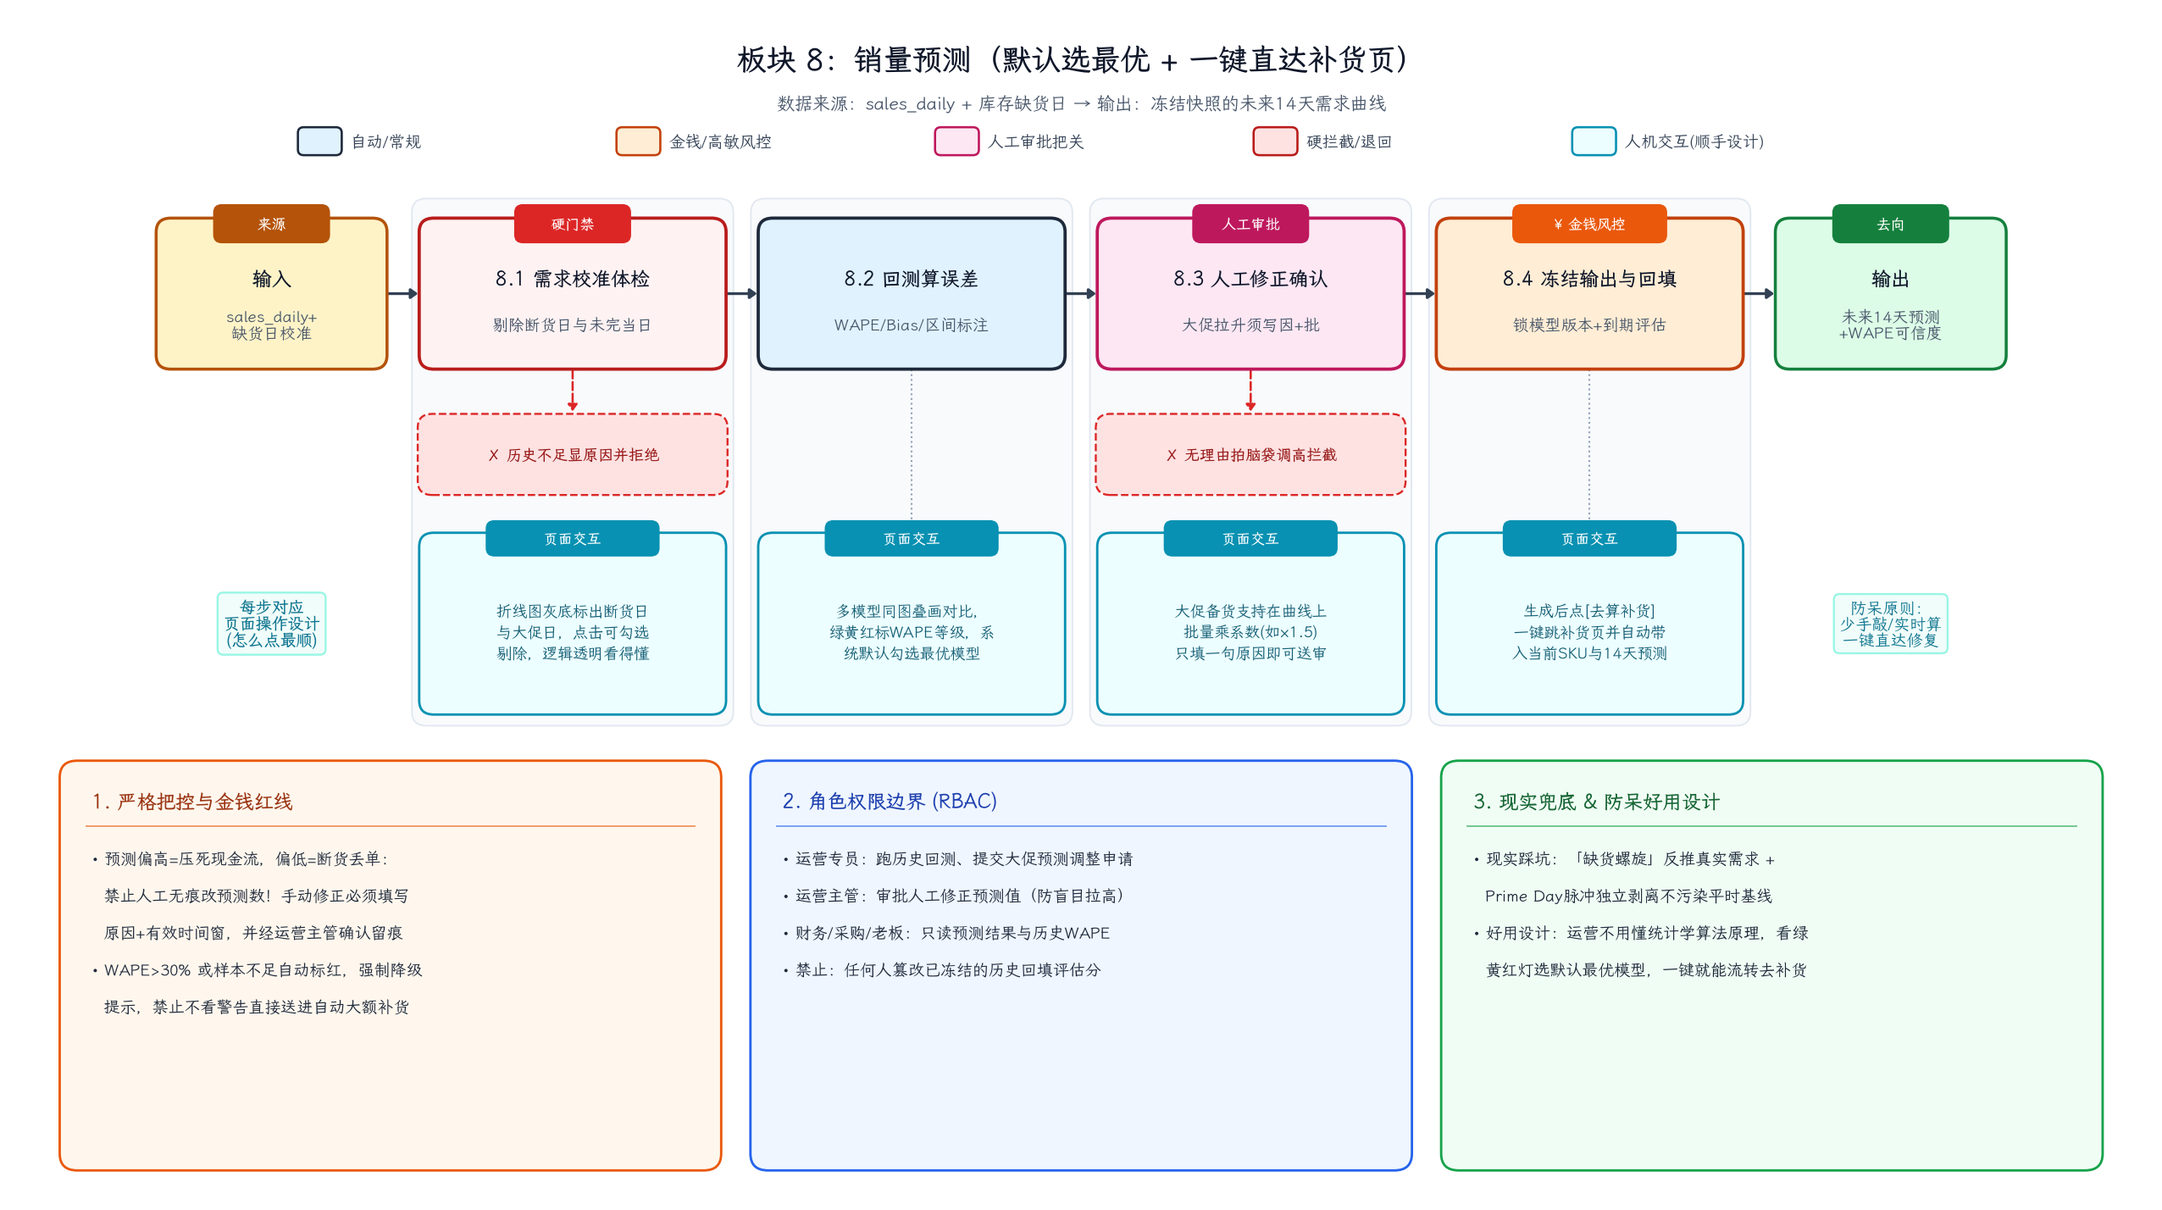
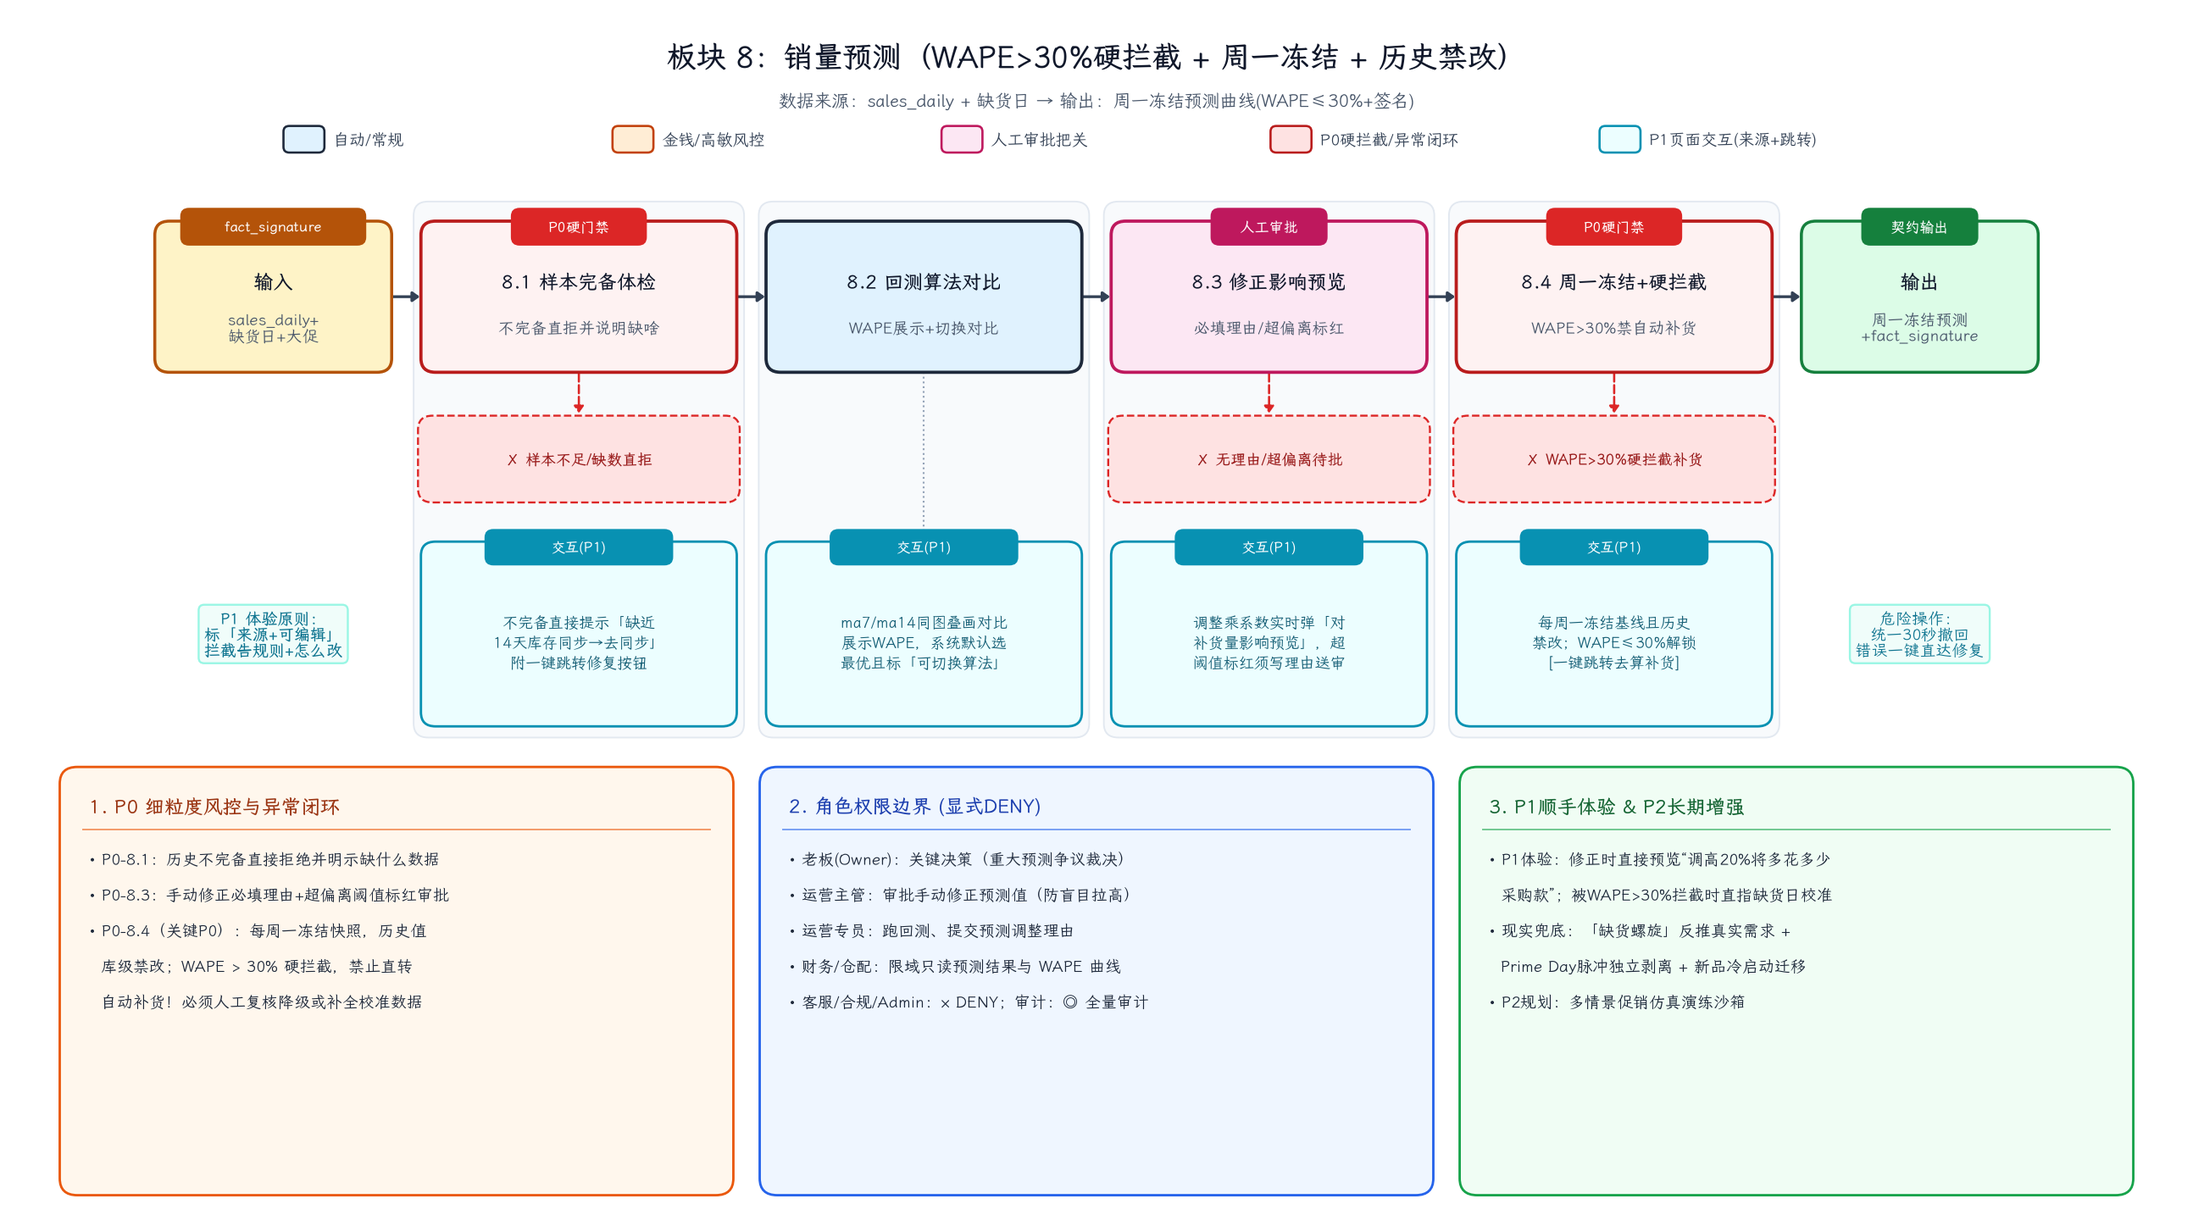
docs: 按P0/P1/P2评审全面升级16张流程图与全链路契约
- P0权限修复(m00): Owner关键决策+异常裁决防瓶颈、财务/合规三权分立、Admin剥离业务权全显式DENY、Auditor全量审计
- P0跨板块(m15): 全链路 fact_signature 契约(8→9→4→2→3)与审批驳回/库存变动异常闭环
- P0模块硬补: 订单金额变更申请单、预测WAPE>30%硬拦截+周一冻结、知识库隐藏列脱敏+过期自动下架、审计SHA-256哈希链、补全板块10经营总览晨会图
- P1体验升级(m14+全图): 来源+可编辑提示、拦截明示规则与改法+一键跳转、危险操作统一30秒撤回

diff --git a/docs/prototypes/strict-rbac-and-controls.md b/docs/prototypes/strict-rbac-and-controls.md
@@ -1,53 +1,58 @@
-# 严格业务风控、9角色权限矩阵与现实优化设计（V2）
+# 严格业务风控、9角色权限矩阵与全链路契约设计（V3 · P0/P1/P2 完善版）
 
-> 对应流程图目录：`docs/prototypes/modules/`（`m00_rbac_matrix.png` + `m01_shop.png` ~ `m13_kb.png` + `m14_ux_principles.png`，共 15 张 PNG）  
-> 设计原则：**凡涉金钱与对外发布必设人工审批门禁、提案与审批强制分离（SoD）、管理权与资金权分离、未知不填零、全链路不可篡改审计；同时「把麻烦留给系统预检，把直观和一键决策留给人」**。
-
----
-
-## 一、企业级 9 角色权限矩阵（基于现有 6 角色升级）
-
-> 与现有代码 `pilot/rbac/service.py`（`viewer / planner / approver / warehouse / auditor / admin`）兼容映射，补齐跨板块业务岗位：
-
-| 岗位角色 | 对应现有 RBAC | 核心职责边界 | 严禁越权红线 |
-|---|---|---|---|
-| **1. 老板 (`owner`)** | 新增（终审级） | 全局只读全盘经营/现金流/净利润；终审大额补货（`>$20,000`）、大额退款、超额度测款、店铺授权/解绑、月度封账、高敏权限复核 | 保留常规操作留痕，所有终审写不可篡改审计日志 |
-| **2. 财务 (`finance`)** | 新增（资金/账务） | 全权管理【财务利润】（费用导入、CostCard 锁版、汇率结算、月度封账）；会签中大额补货（`$3k~$20k`）、复核选品利润率、审核大额退款/打款；只读经营总览与问数财务口径 | **禁止**发客服消息、发商品内容、修改商品上架文案、自建采购收货、配置 RBAC 权限 |
-| **3. 运营主管 (`ops_manager`)** | 映射 `approver` | 审批所辖店铺的【选品初筛】、【内容发布】、【销量预测人工修正】、【常规补货 `≤$3,000`】、【商品下架/特批改价】 | **禁止**自批自己提交的申请（SoD）；无权修改 CostCard 与公司总利润封账 |
-| **4. 运营专员 (`operator`)** | 映射 `planner` | 导入选品、维护商品基础信息、生成内容草稿送审、提交预测调优申请、提交补货方案（`READY_FOR_REVIEW`） | **绝对禁止**自提自批；调价低于保本线硬拦截；看不到公司整体净利润 |
-| **5. 采购仓配 (`warehouse_buyer`)** | 映射 `warehouse` | 执行已批准 PO 下单、物流登记、分批收货质检上传凭证、提交库存盘点单 | **禁止**审批补货单、修改采购单价/数量、查看公司总利润与广告费 |
-| **6. 客服 (`cs_agent` / 主管)** | 新增 | 查看脱敏订单、知识库检索、AI 辅助起草并确认回复、创建售后工单（客服主管可批小额赔付，大额转财务） | **严禁**看公司采购底价与净利润；问数询问利润直接拒绝；高风险投诉强制切人工 |
-| **7. 合规负责人 (`compliance`)** | 新增 | 维护【合规规则库】（发布/回滚禁用词、类目认证矩阵、AI 人物标注规范）；高风险内容与选品合规一票否决；审核【知识库】退货政策文档 | 不参与日常花钱采购与资金审批 |
-| **8. 系统管理员 (`sys_admin`)** | 映射 `admin` | 创建普通账号、绑定店铺技术 Token 与同步调度、配置菜单与基础参数 | **三权分立**：不能看公司净利润、不能审批任何金钱单据、不能自授「老板/财务/审批」高敏角色（须老板二次复核）、不能删改审计日志 |
-| **9. 审计员 (`auditor`)** | 保留 `auditor` | 全局只读全业务单据流痕、审批记录、权限变更 Diff、智能问数执行记录 | **全系统零写权限**，独立监督包含老板/财务/管理员在内的所有操作 |
-
-### 四大内控铁律
-
-1. **铁律 1（SoD 提案≠审批）**：`created_by != approved_by`，系统后端强制校验，任何提交人不得批准自己的选品/内容/补货/退款申请。
-2. **铁律 2（金钱三级审批）**：
-   - `≤ $3,000`：运营主管审批；
-   - `$3,000 ~ $20,000`：运营主管 + 财务会签（核现金流与 CostCard）；
-   - `> $20,000` 或激进高风险/大额赔付单：必须老板（Owner）终审。
-3. **铁律 3（管理权与资金权分离）**：系统管理员不管钱、不看总利润、不删日志；授予高敏角色必须老板二次确认。
-4. **铁律 4（实时查库鉴权 + 按角色脱敏）**：不信任 JWT 旧快照，离职停用毫秒级失效；客服/运营/管理员在经营总览与智能问数中被自动屏蔽公司总净利润与采购底价。
+> 对应流程图目录：`docs/prototypes/modules/`（共 **16 张 PNG**：`m00_rbac_matrix.png` + `m01_shop.png` ~ `m13_kb.png` + `m14_ux_principles.png` + `m15_cross_module_contract.png`）  
+> 核心原则：**消除灰区（全显式 `DENY`）、剥离管理员业务权、Owner 防瓶颈、全链路 `fact_signature` 契约、SHA-256 哈希链审计、危险操作统一 30 秒撤回、P0 阻断必须先于 P1/P2 落地**。
 
 ---
 
-## 二、13 个板块的严格把控点与现实优化点子汇总
+## 一、改进优先级地图（P0 → P1 → P2）
 
-| 板块 | 流程图文件 | 核心金钱/风险把控点 | 现实业务兜底 & 高价值优化点子 |
+1. **P0 阻断级（必须现在补齐，严禁带病上线）**：
+   - 权限矩阵修复：Owner 防瓶颈（财务/合规仅保留「阅+争议裁决」）；Admin 剥离所有业务板块操作权（`01~11, 13` 显式 `DENY`，仅留 `12 系统管理`）；消灭空白灰区全部显式 `DENY`；Auditor 明确赋予全量审计日志只读。
+   - 订单金额字段库级只读，任何修改必须走「金额变更申请单」。
+   - 销量预测每周一冻结，历史值禁改；**`WAPE > 30%` 硬拦截禁止直转自动补货**。
+   - 上传知识库强制扫 PII/底价及 **Excel 隐藏列**，未 `PUBLISHED` 禁止 AI 引用，**过期政策自动下架** + 影响问答预览。
+   - 补全跨板块 `fact_signature` 契约（覆盖 `8→9→4→2→3` 每个交接点）+ 补全异常闭环（审批驳回退回发起人 / 库存中途变动拦截重算）。
+   - 板块 12 审计日志升级为 **Append-Only + SHA-256 哈希链防篡改**。
+   - 专设板块 10「经营总览」老板一屏晨会视图（汇总 `8预测+9补货+3财务+2订单+7客服`）。
+2. **P1 体验级（顺手度提升）**：
+   - Auto-Fill 必标「来源 + 可编辑」；拦截明示「违反哪条规则 + 怎么改 + 一键跳转」。
+   - 危险操作（退款 / 内容发布 / 商品改价 / 客服发送 / 补货提交）统一 **30 秒撤回窗口**。
+   - 店铺失败重试 3 次指数退避转人工单 + SLA 超时逐级通知；财务按结算日锁汇率、CostCard Diff 高亮；选品模板下载 + 异常列高亮 + 评分权重模板保存；内容 5 秒存稿 + `bilingual` 一键采纳 + 红线高亮一键替换；客服近 3 单 + 设备 + PII 脱敏 + 快捷回复；知识库审前「模拟买家试问盒」。
+3. **P2 增强级（长期建设）**：
+   - 移动端审批、数据埋点看板、AI 意图识别置信度展示、评分模板市场、多情景仿真沙箱演练、跨板块日志关联查询、规则变更影响分析、多语言/多时区深度适配。
+
+---
+
+## 二、企业级 9 角色权限矩阵（P0 修复版 · 见 `m00_rbac_matrix.png`）
+
+| 岗位角色 | 定位 | 核心权限边界 | 严禁越权与三权分立隔离 |
 |---|---|---|---|
-| 0. 权限总览 | `m00_rbac_matrix.png` | 9 角色 × 13 板块权限矩阵 + 四大内控铁律 | 限时代理审批（主管休假防卡单）、高危权限变更前后 Diff |
-| 1. 店铺管理 | `m01_shop.png` | 改绑 `org_id`/默认费率须老板批；有历史账目禁物理删店；同步失败保留旧快照 | 多站点时区对齐（PST vs UTC+8）、Token 临期 7 天告警、防关联体检 |
-| 2. 订单中心 | `m02_order.png` | 原始成交额锁定禁止手改；退款 ≤ 实付；大额退款需财务+主管双审 | 东南亚 COD 拒收率剔除、FBA 多仓拆单追踪、恶意刷单/高拒付地址标黄 |
-| 3. 财务利润 | `m03_finance.png` | 未知不填零（缺费用禁算假利润）；跨币种禁直接相加；CostCard 锁版与月度封账 | 平台压款回款日历（GMV≠现金）、头程按重量/体积重分摊、退货不可售损毁核销 |
-| 4. 商品中台 | `m04_product.png` | 保本售价红线硬拦截；盘点走调整单禁直接改库存；有在途 PO 禁删 SKU | 组合装（Bundle）BOM 联动扣库存、商品生命周期状态标签（测款/主推/清仓/冻结） |
-| 5. 选品研究 | `m05_selection.png` | 五条件硬门禁（非纯内部真实数据禁批准）；测款预算分级批；合规一票否决 | 季节性爆款防全年误备货、高销量高退货陷阱拦截、MOQ 阶梯价利润重算 |
-| 6. 内容智能 | `m06_content.png` | 生成≠合规≠发布三态隔离；命中侵权/违禁词/缺 AI 元数据直接 `BLOCKED`；GPU 日限额 | 同音/拆字变体违禁词检测、差评高频痛点自动反哺五点描述优化 |
-| 7. 客服工作台 | `m07_cs.png` | 四重拦截防封店（外链/索好评/错金额）；投诉强制切人工；退款关联原单防超退 | Amazon 24h SLA 倒计时置顶预警、跨店职业索赔买家识别、高频问题回流选品/KB |
-| 8. 销量预测 | `m08_forecast.png` | 样本不足显因拒绝；人工调高预测须填因+时间窗+主管批；WAPE>30% 红灯警告 | 缺货螺旋反推真实需求、大促脉冲剥离基线、新品冷启动同类目迁移预测 |
-| 9. 智能补货 | `m09_replenish.png` | `fact_signature` 防过期审批；SoD+三级金额审批；三单匹配（PO+物流+质检）入库 | 交期方差动态安全库存、MOQ/箱规自动凑整、月度采购资金池上限排序抢额度 |
-| 10. 经营总览 | `m10_dashboard.png` | 按角色脱敏财务卡；强制标注 `as_of`/币种/模拟标；AI 简报不编数 | 库存资金占用与周转天数健康卡、异常指标一键下钻直达处理单据 |
-| 11. 智能问数 | `m11_qa.png` | 写指令硬拒绝；继承 RBAC 权限域（客服禁问利润）；跨币种禁相加返回 `MIXED_CURRENCY` | 指标口径歧义主动反问澄清、高频问句一键钉选看板、防 Prompt 注入 |
-| 12. 系统管理 | `m12_rbac.png` | 高敏授权老板复核防 Admin 自加权；每次实时查库鉴权；Append-Only 审计日志 | 休假限时代理授权、夜间异常批量导出财务表告警 |
-| 13. 上传知识库 | `m13_kb.png` | 敏感词扫描防误传内部底价；草稿需合规/主管审后才可被 AI 检索；新版归档旧版 | 文档生效起止时间（大促临时政策自动过期）、知识盲区雷达统计无答案问题 |
+| **1. 老板 (`owner`)** | 关键决策 + 异常裁决 | 关键节点拍板（店铺解绑/大额补货 `$30w+`/大额异常退款/高敏授权二级复核）；一屏晨会只读全盘 | **防瓶颈 & 三权分立**：在 `03 财务利润`、`06 内容`、`13 知识库` **仅保留「阅 + 争议裁决」**，不插手日常审批 |
+| **2. 财务 (`finance`)** | 钱袋子与账务主责 | 日常费用导入、`CostCard` 编审锁版、汇率锁算、月结核算；审批订单退款、选品利润、`$3k~$30w` 补货会签 | 无权操作内容、客服对话、预测修改、系统管理（全部显式 `DENY`） |
+| **3. 运营主管 (`ops_manager`)** | 日常业务审批 | 审批小额退款/订单跳态、商品改价停售、选品常规测款、内容发布、预测手修、`≤$3k` 补货 | **禁止自提自批（SoD）**；`03 财务`、`12 系统管理` 显式 `DENY` |
+| **4. 运营专员 (`operator`)** | 日常运营提交 | 商品维护、选品导入提审、内容草稿生成、预测提交、补货提交、`13 知识库` 草稿上传 | **严禁自批**；`03 财务`、`07 客服`、`12 系统` 显式 `DENY` |
+| **5. 采购仓配 (`warehouse_buyer`)** | 货流与三单收货 | 维护库存盘点单、按审批生成锁定数量 PO、三单匹配收货质检（不合格品进隔离区） | 禁止修改审批后 PO 数量；`03 财务`、`05~07`、`12~13` 显式 `DENY` |
+| **6. 客服 (`cs_agent`)** | 买家沟通与工单 | 脱敏查近 3 单+设备、AI 辅助翻译(`bilingual` 一键采纳)与回复、建售后补偿申请、传 KB 草稿 | 命中四类红线强制切人工；`03/05/06/08/09/12` 显式 `DENY` |
+| **7. 合规 (`compliance`)** | 规则与法务红线 | 选品合规一票否决；主责维护内容规则库（版本化/双人生效/回滚/软删）与审发 `13 知识库` | `02/03/08/09/12` 显式 `DENY` |
+| **8. 系统管理员 (`sys_admin`)** | 纯技术账号配置 | **仅在 `12 系统管理` 配账号与权限模板**；超最小权限模板须二级审批；离职二次复核秒失效 | **彻底剥离业务权**：`01~11`、`13` **全部显式 `DENY`**，禁碰店铺/订单/财务 |
+| **9. 审计员 (`auditor`)** | 全量独立监督 | **全系统 13 板块 + `12.4` 哈希链审计日志全量只读** | 全系统零写权限 |
+
+---
+
+## 三、全链路契约与逐板块 P0/P1 核心清单（对应 `m01~m15`）
+
+- **全链路契约（`m15_cross_module_contract.png`）**：`fact_signature = SHA256(org_id | shop_id | sku_ver | cost_card_ver | sales_cutoff_ts | inv_snapshot_id | forecast_run_id)` 贯通 `2订单 → 3财务 → 4商品 → 8预测 → 9补货 → 10总览`。任一上游变动即拒绝旧批并退回重算，驳回必须填理由退回发起人待办。
+- **1 店铺（`m01_shop.png`）**：OAuth scope 越权直接拒+留痕；`org_id` 责任书 1 对 1 硬校验、解绑二次审批；同步失败重试 3 次指数退避转人工单；SLA 超 1h 逐级通知。
+- **2 订单（`m02_order.png`）**：`order_id+平台` 去重；金额库级只读必须走变更申请单；状态机跳态须审批；退款分级+退回填因+30 秒撤回。
+- **3 财务（`m03_finance.png`）**：结算日锁汇率超波动冻结重算；`CostCard` Diff 高亮+缺项禁核算；月结后仅走红字调整单+老板批+哈希存证；负毛利标红附疑似原因。
+- **4 商品（`m04_product.png`）**：一码多物/重复 ASIN 实时拦截；保本价硬校验+成本变动重算通知；改价停售先展受影响订单库存；四态分列且缺 PO 在途禁转可售。
+- **5 选品（`m05_selection.png`）**：字段映射模板化+异常列高亮+正确模板下载；五条件逐条显因、合规不过禁选；权重可存模板；测款 `≤$25/款` 硬上限；10 天出单异常高亮+一键复盘报告。
+- **6 内容（`m06_content.png`）**：5 秒自动存稿+`bilingual` 一键采纳；红线命中 `BLOCKED`+高亮一键替换（不可跳过）；三状态机+高风险送合规+30 秒撤回；规则库版本化双人确认+回滚+软删。
+- **7 客服（`m07_cs.png`）**：负面/退款自动升级；查单带近 3 单+设备+PII 脱敏；四类命中转人工；30 秒撤回+补偿分级审批。
+- **8 预测（`m08_forecast.png`）**：不完备直拒明示缺啥；WAPE 展示+算法切换；手修必填理由+影响预览；每周一冻结历史禁改+**`WAPE>30%` 硬拦截禁自动补货**。
+- **9 补货（`m09_replenish.png`）**：全链路 `fact_signature` 校验+显示货期；三方比价到仓天数+风险量；三档审批（`≤$3k` 主管 / `>$3k~$30w` 财务 / `$30w+` 老板），期间变数退回重算；PO 锁数量；三单匹配上架坏品隔离。
+- **10 总览（`m10_dashboard.png`）**：汇总 `8+9+3+2+7` 老板一屏晨会视图；核验签名与 SLA；按角色裁剪脱敏；红灯一键跳转。
+- **11 问数（`m11_qa.png`）**：写库/改价/删记录直拒；SQL 生成前注入 RBAC；只读沙箱禁直连生产库+空数据/跨表校验；数字附来源表+口径+导出+常用问题芯片。
+- **12 系统（`m12_rbac.png`）**：9 岗最小权限超范围二级审批；离职二次复核秒失效+到期自动回收；每次实时查库非缓存；**Append-Only + SHA-256 哈希链防篡改**。
+- **13 知识库（`m13_kb.png`）**：PII/底价脱敏（**含扫描表格隐藏列**）；生效范围与可视化预览；审前模拟买家试问、未 `PUBLISHED` 禁引用；**过期政策自动下架+影响问答预览**。
